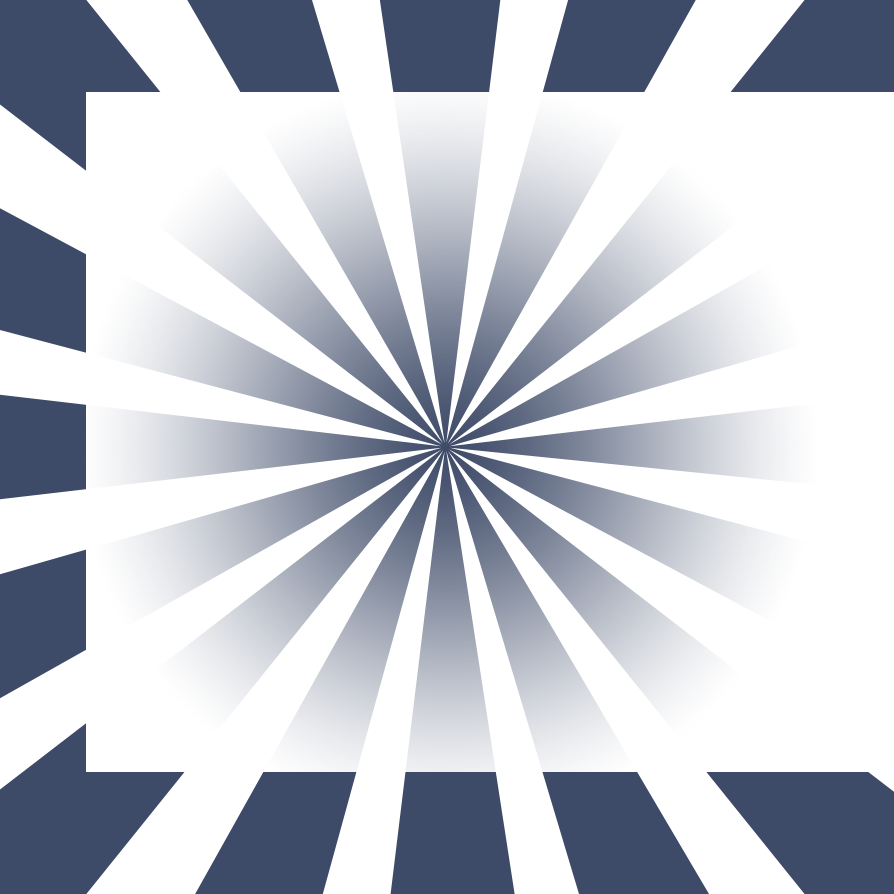
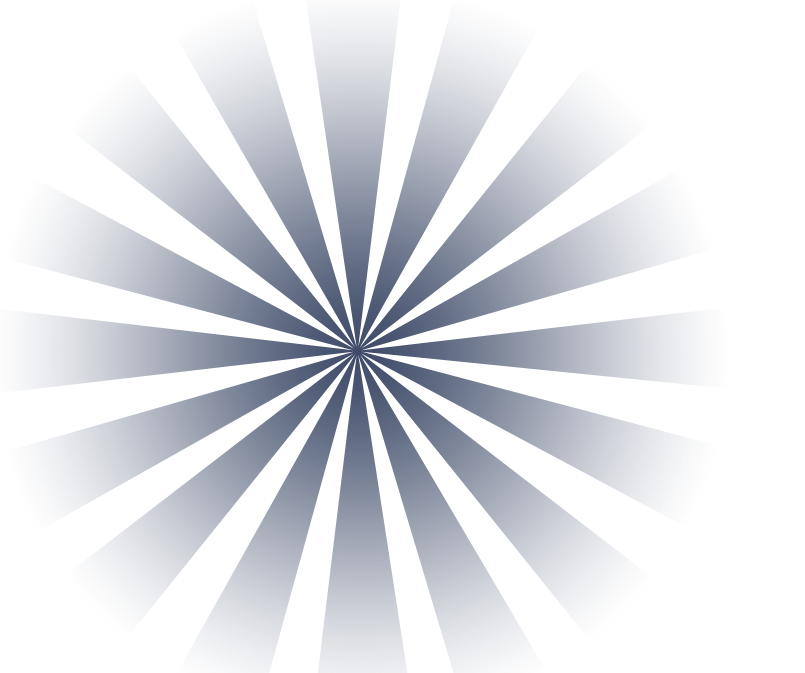
Add files via upload

diff --git a/style.css b/style.css
@@ -1,16 +1,14 @@
-@font-face{
-    font-family: Impact;
-    src: url(font/impact.ttf);
-}
 
 @font-face{
     font-family: Poppins;
     src: url(font/Poppins-Regular.ttf);
+    font-weight: bold;
 }
 
 @font-face{
     font-family: Lato;
     src: url(font/Lato-Bold.ttf);
+    font-weight: bold;
 }
 
 @font-face{
@@ -23,8 +21,9 @@ box-sizing: border-box;
 }
 
 body{
+    font-family: Eurof;
     margin: 0;
-    background-color:#383b42;
+    background-color:#ffffff;
 }
 
 ul{
@@ -42,6 +41,8 @@ li{
     cursor: pointer;
     background-color: rgb(187, 187, 187);
     border-radius: 10px;
+    width: 58px;
+    height: 53px
 }
 
 .nav-btn{
@@ -93,6 +94,14 @@ li{
     border: 5px solid black;
 }
 
+li.nav-gallery.btn {
+    background-image: linear-gradient(-86deg, #33be6d 0%, #0c98b9 100%);
+    box-shadow: 1px 5px 0 #696969, inset 0 5px 0 #ffffff;
+    height: 30px;
+    width: 65px;
+    text-align: center;
+}
+
 .canvas-container{
     display: none;
     width: 100%;
@@ -102,6 +111,8 @@ li{
     padding: 40px 0;
     grid-auto-flow: column;
     background-image: url('icon/Forme_1.png');
+    background-size: 700px  500px;
+    background-repeat: no-repeat;
 }
 
 .canvas-container>* {
@@ -112,20 +123,31 @@ li{
 .meme-canvas{
     border: 1px solid black;
     box-shadow: 1px 5px 0 #696969, inset 0 5px 0 #ffffff;
-    border-radius: 30px;
+    border-radius: 30px; 
 }
 
 .control-box {
     width: 400px;
     height: 400px;
     display: grid;
-    grid-gap: 10px;
+    /* grid-gap: 10px; */
     align-items: center;
     padding: 0 20px;
     box-shadow: 1px 5px 0 #696969, inset 0 5px 0 #ffffff;
     border-radius: 30px;
     background-color: #ebeef3; 
+    text-align: center;
+    justify-content: space-evenly;
 }
+
+.btn-delete img {
+    height: 31px;
+}
+
+.btn-font-size img {
+    height: 26px;
+}
+
 
 .btn-arrow{
     background-color: #ebeef3;
@@ -156,17 +178,15 @@ li{
     margin-top: 5px;
     width: 76px;
     height: 39px;
-    margin-top: 5px;
 }
 
 select.font-select{
-    
     font-size: 16px;
     font-weight: bolder;
 }
 
 .label-color-select{
-    margin-left: 10px;
+    margin-left: 20px;
 }
 
 #color-select{
@@ -174,15 +194,22 @@ select.font-select{
    align-items: center;
 }
 
+.remote-canvas{
+    align-self: normal;
+}
+
 .download{
-    width: 213px;
-    height: 51px;
-    box-shadow: 1px 6px 0 #632687, inset 0 5px 0 #ffffff;
+    width: 100px;
+    height: 100px;
+    box-shadow: 1px 6px 0 #632687, inset 0 3px 0 #ffffff;
     border-radius: 15px;
     background-color: #8f44bb;
+    font-family: Lato;
+    padding: 10px;
 }
 
 a.download img {
+    height: fit-content;
 color: #ffffff;
 font-family: Poppins;
 font-size: 21px;
@@ -191,10 +218,40 @@ font-style: normal;
 letter-spacing: normal;
 line-height: normal;
 text-align: center;
-padding: 17px 10px;
 }
 
-@media (max-width: 700px){
+.download-img{
+    margin-right: 10px;
+}
+
+.share{
+    display: inline-block;
+    font-family: Poppins;
+    width: 168px;
+    height: 40px;
+    box-shadow: 1px 6px 0 #165c9c, inset 0 3px 0 #ffffff;
+    border-radius: 15px;
+    background-color: #1e7cd3;
+    margin-left: 10px;
+    padding: 3px;
+}
+
+form.share.grid.btn img{
+    height: fit-content;
+    color: #ffffff;
+    font-size: 21px;
+    font-weight: 500;
+    font-style: normal;
+    letter-spacing: normal;
+    line-height: normal;
+    text-align: center;
+}
+
+.share-container-img{
+    margin-right: 10px;
+}
+
+@media (max-width: 900px){
 
     .nav{
         display: none;

diff --git a/index.html b/index.html
@@ -65,34 +65,40 @@
                     <img src="icon/rtl.png" />
                 </button>
             </div>
-                <div class="btn-container3 grid">
-                    <select class="font-select" onchange="onChangeFont(value)">
-                        <option>Impact</option>
-                        <option>Eurof</option>
-                        <option>Poppins</option>
-                        <option>Lato</option>
-                    </select>
-                    <label for="color-select" class="label-color-select">
-                        <input type="color" id="color-select" onchange="onChangeOutlineColor(value)">
-                        <img src="icon/stroke.png" />
-                    </label>
-                    <label for="color-select" class="label-color-select">
-                        <input type="color" id="color-select" onchange="onChangeFillColor(value)">
-                        <img src="icon/color.png" />
-                    </label>
-                
-            </div>
+            <div class="btn-container3 grid">
+                <select class="font-select" onchange="onChangeFont(value)">
+                    <option>Impact</option>
+                    <option>Eurof</option>
+                    <option>Poppins</option>
+                    <option>Lato</option>
+                </select>
+                <label for="color-select" class="label-color-select">
+                    <input type="color" id="color-select" onchange="onChangeOutlineColor(value)">
+                    <img src="icon/stroke.png" />
+                </label>
+                <label for="color-select" class="label-color-select">
+                    <input type="color" id="color-select" onchange="onChangeFillColor(value, event)">
+                    <img src="icon/color.png" />
+                </label>
 
-            <a class="download" href="#" onclick="downloadCanvas(this)">
-                <img src="icon/downloadsign.png">
-                <img src="icon/download.png">
-            </a>
+            </div>
+            <div class="remote-canvas grid">
+                <a class="download grid" href="#" onclick="downloadCanvas(this)">
+                    <img src="icon/downloadsign.png" class="download-img">
+                    <img src="icon/download.png">
+                    <!-- <input type="file" class="file-input btn" name="image" onchange="onImgInput(event)" /> -->
+                </a>
+                <form class="share grid btn" href="#" action="" method="POST" enctype="multipart/form-data"
+                    onclick="shareCanvas(this, event)">
+                    <input name="img" id="imgData" type="hidden" />
+                    <div class="share-container">
+                        <img src="icon/sharesign.png" class="share-container-img">
+                        <img src="icon/Share.png">
+                    </div>
+                </form>
+            </div>
         </div>
     </div>
-
-
-
-
     <script src="js/service.js"></script>
     <script src="js/editor-controller.js"></script>
     <script src="js/main-controller.js"></script>

diff --git a/js/editor-controller.js b/js/editor-controller.js
@@ -40,7 +40,7 @@ function drawTxt(line){
     gCtx.lineWidth = '1';
     gCtx.fillStyle = line.fillColor;
     gCtx.strokeStyle = line.outlineColor;
-    gCtx.font = `${line.size}px ${line.font}`; 
+    gCtx.font = `italic ${line.size}px ${line.font}`; 
     gCtx.textAlign = line.align;
     gCtx.fillText(line.txt, line.positionX, line.positionY);
     gCtx.strokeText(line.txt, line.positionX, line.positionY);
@@ -91,6 +91,39 @@ function downloadCanvas(elLink) {
     elLink.href = data;
     elLink.download = 'meme.jpg';
 }
+
+function shareCanvas(elForm, ev){
+    ev.preventDefault();
+    document.getElementById('imgData').value = gCanvas.toDataURL("image/jpeg");
+    function onSuccess(uploadedImgUrl) {
+        uploadedImgUrl = encodeURIComponent(uploadedImgUrl)
+        document.querySelector('.share-container').innerHTML = `
+        <a class="btn" href="https://www.facebook.com/sharer/sharer.php?u=${uploadedImgUrl}&t=${uploadedImgUrl}" title="Share on Facebook" target="_blank" onclick="window.open('https://www.facebook.com/sharer/sharer.php?u=${uploadedImgUrl}&t=${uploadedImgUrl}'); return false;">
+           Share   
+        </a>`
+    }
+    doUploadImg(elForm, onSuccess);
+}
+
+function doUploadImg(elForm, onSuccess) {
+    
+    var formData = new FormData(elForm);
+    fetch('http://ca-upload.com/here/upload.php', {
+        method: 'POST',
+        body: formData
+    })
+    .then(function (res) {
+        return res.text()
+    })
+    .then(onSuccess)
+    
+    .catch(function (err) {
+        console.log(err);
+        console.error(err)
+    })
+}
+
+
 
 
 
